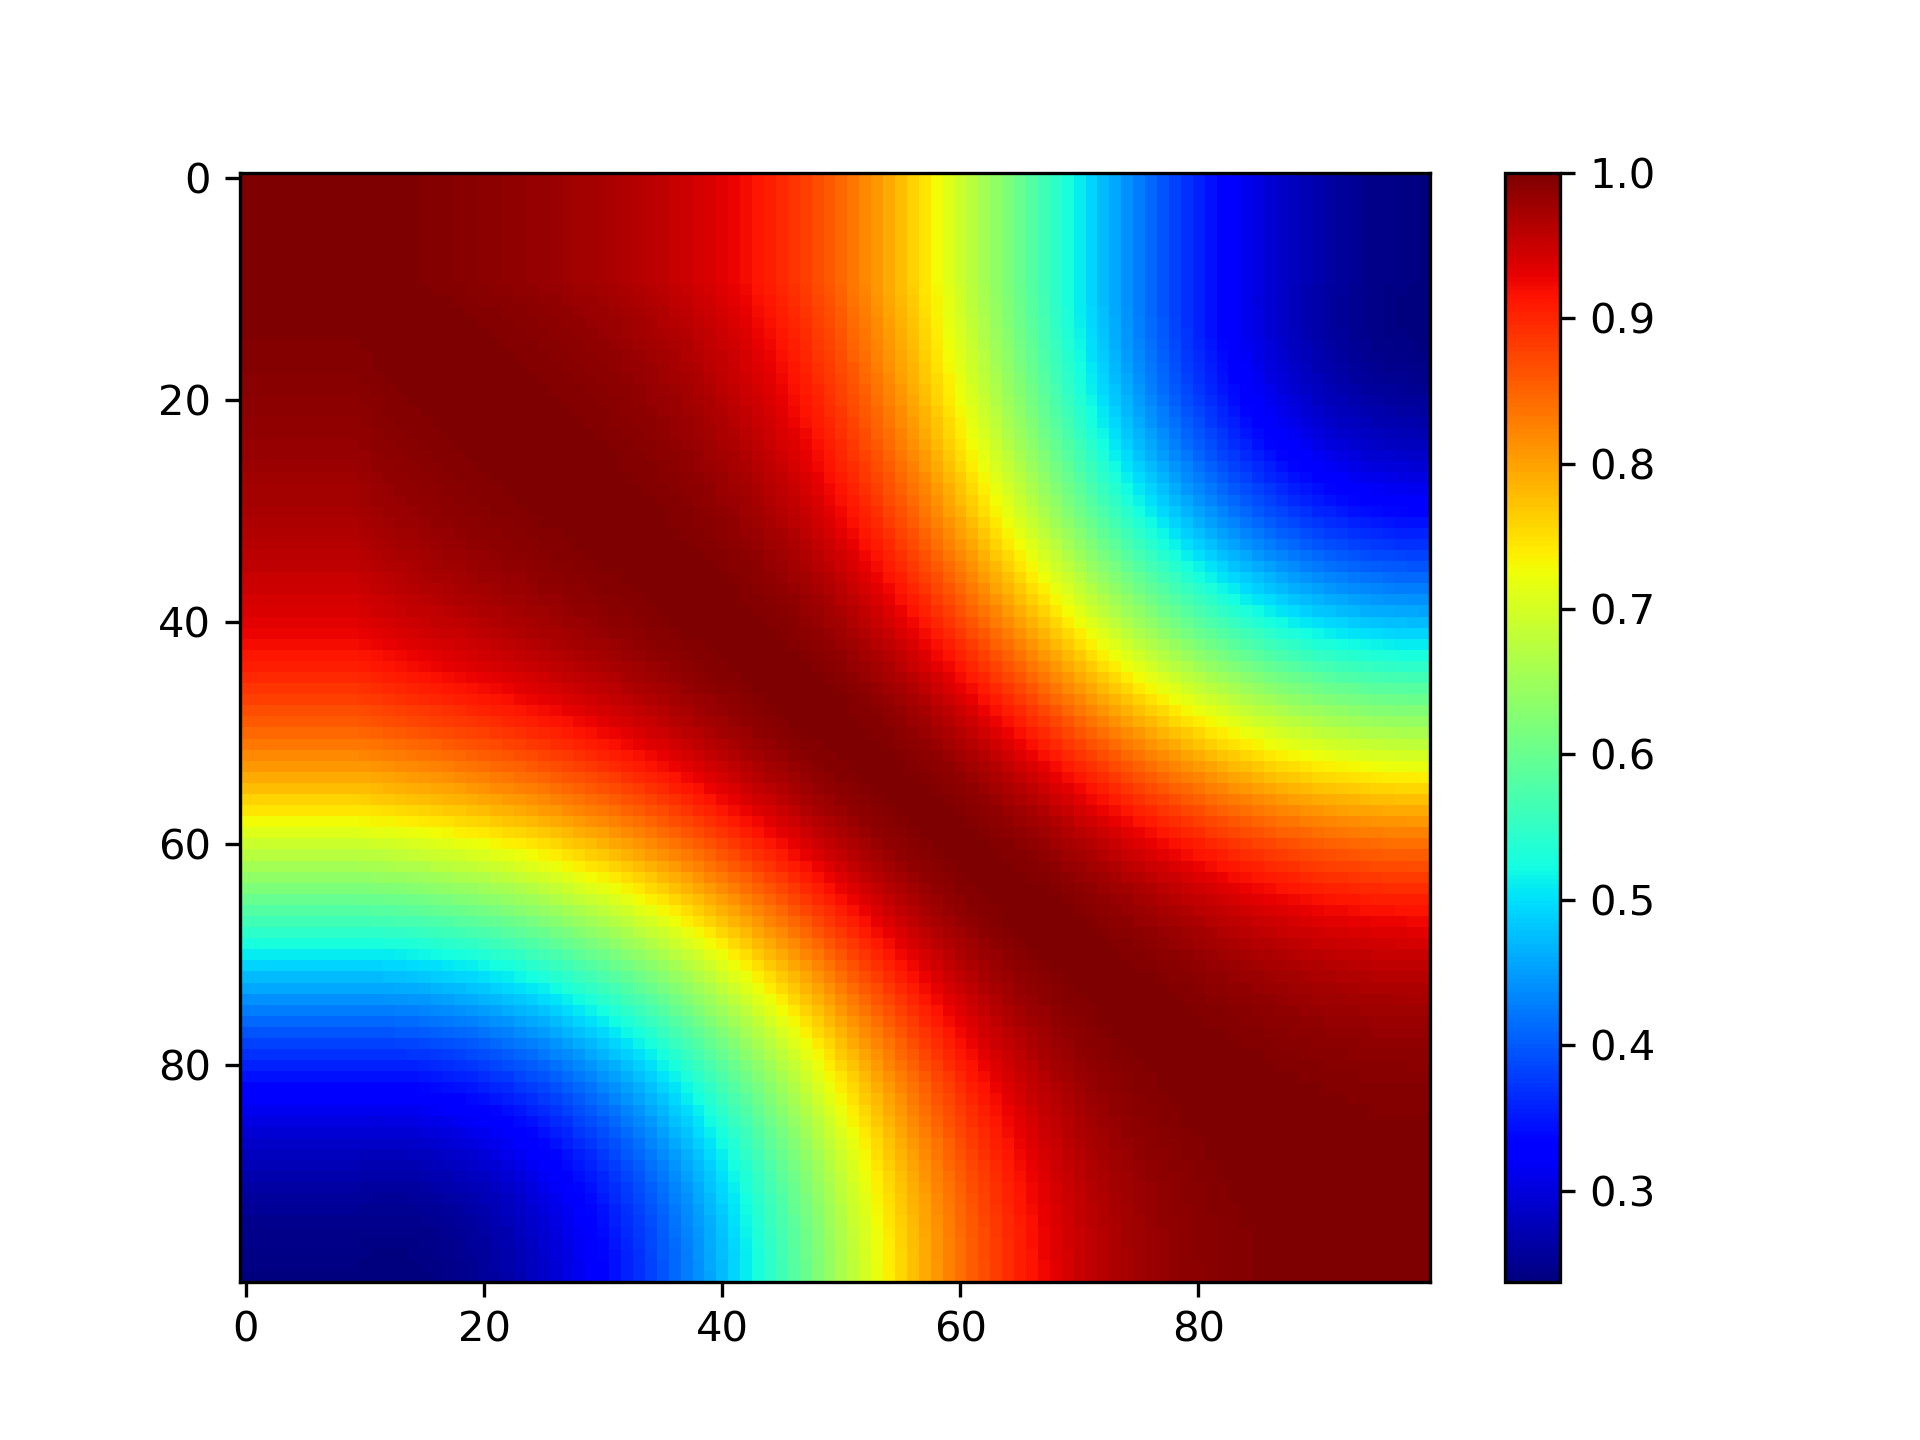
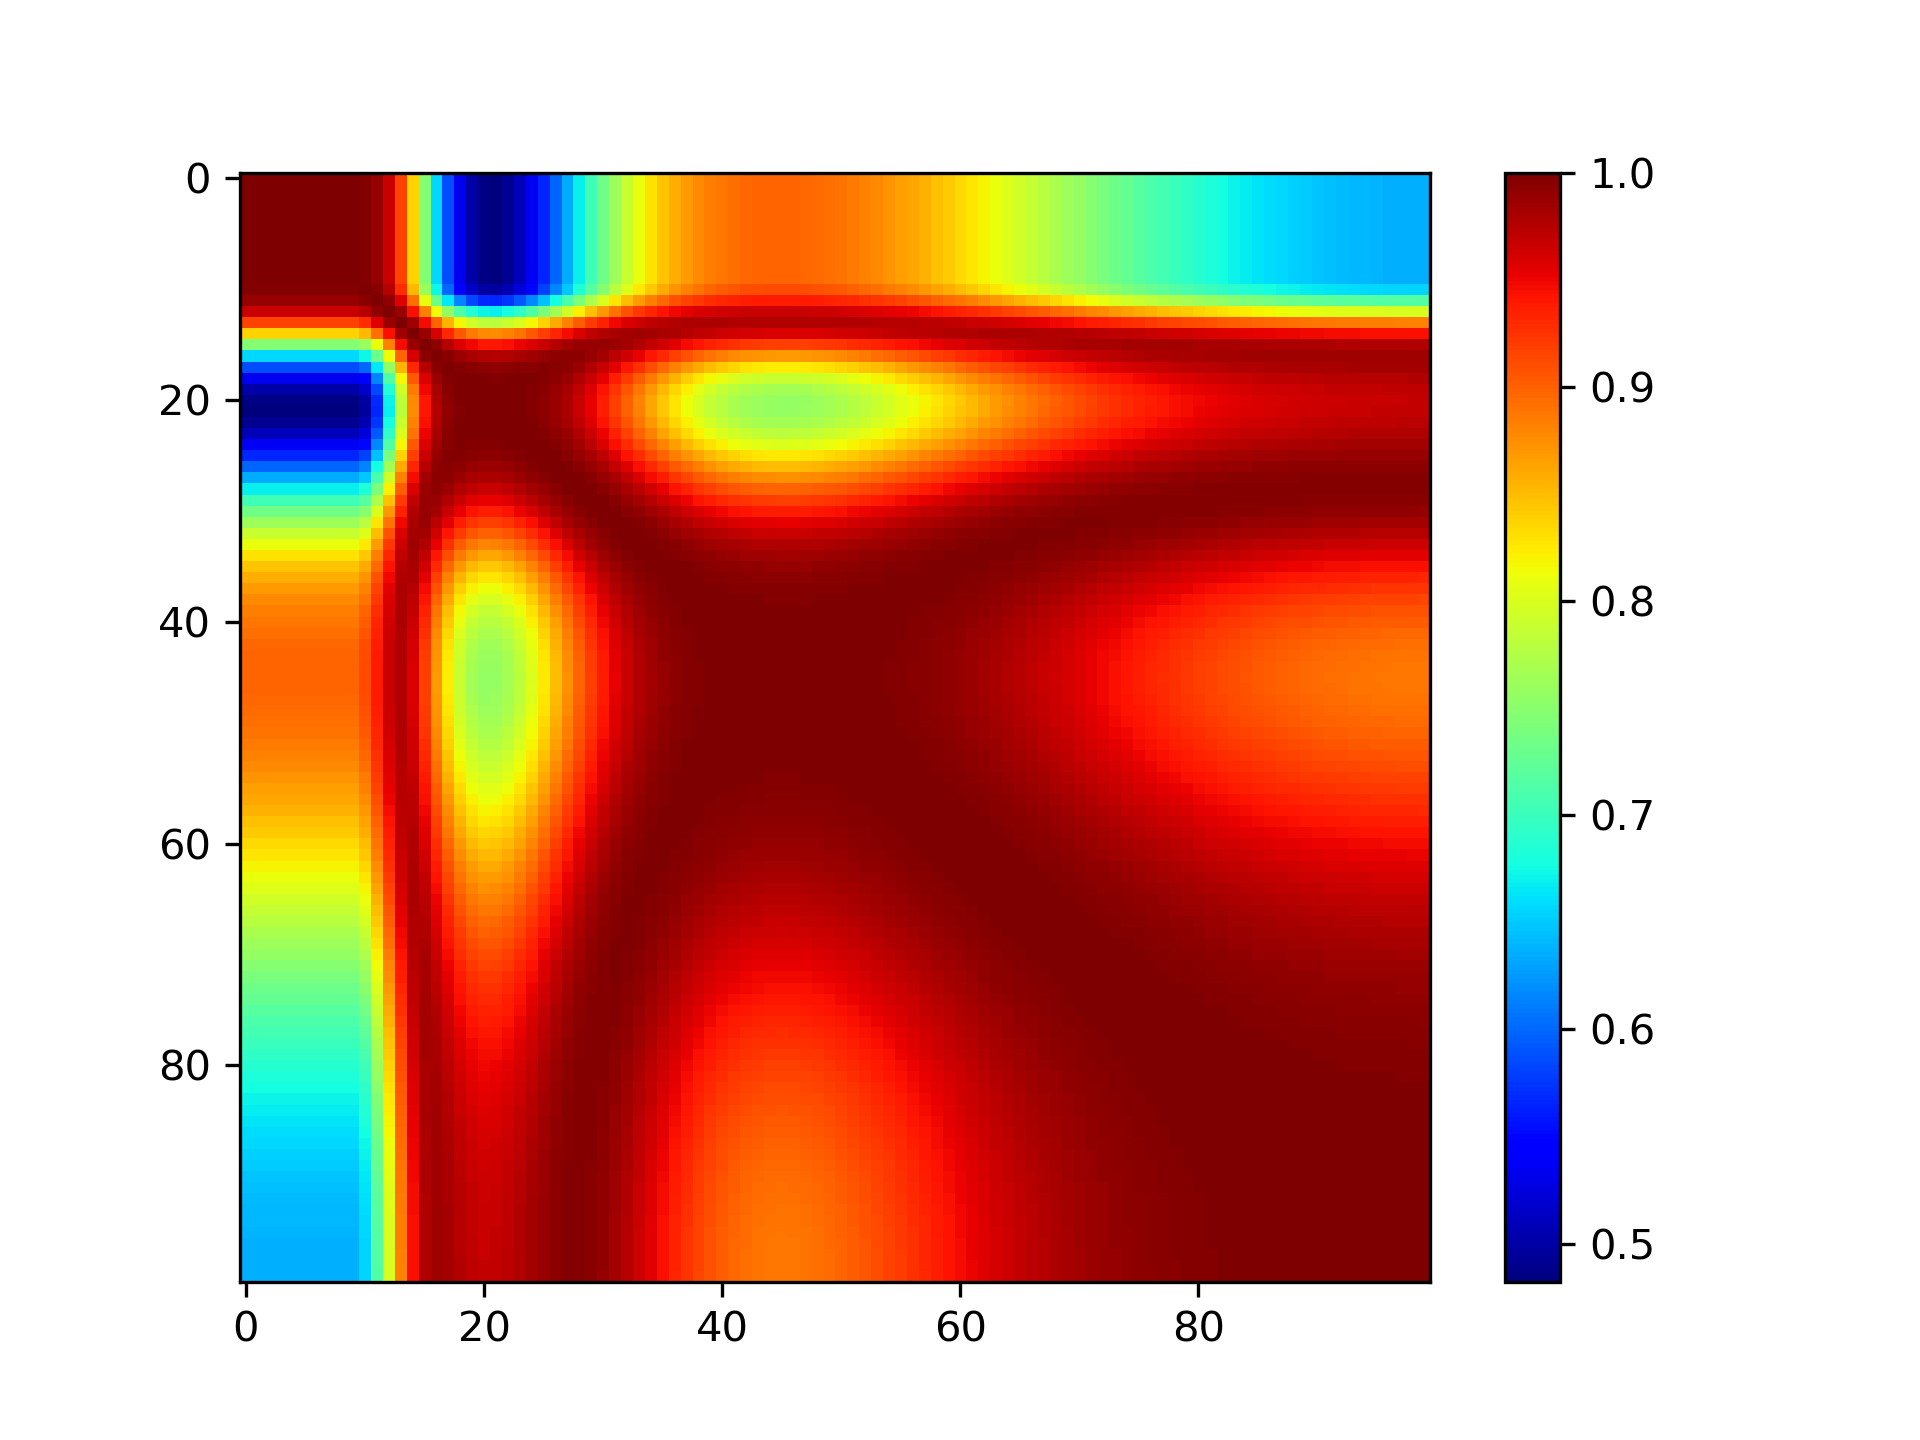
[geometries]: changed background color

diff --git a/src/tests/correlation_analysis.py b/src/tests/correlation_analysis.py
@@ -5,45 +5,46 @@ import os
 
 if __name__ == '__main__':
     data_dir = os.path.dirname(os.path.dirname(os.path.realpath(__file__))) + '/../data/simulations/'
-    for freq in [10, 20, 30, 40, 50]:
-        filename = data_dir + 'TaperedSpring_' + str(freq) + 'hz.pkl'
+    # for freq in [10, 20, 30, 40, 50]:
+    freq = 20
+    filename = data_dir + 'TaperedSpring_sq_nl20.0_hz.pkl'
 
-        with open(filename, 'rb') as f:
-            solution = pickle.load(f)
+    with open(filename, 'rb') as f:
+        solution = pickle.load(f)
 
-        i_max = 100
-        t = solution.t
+    i_max = 100
+    t = solution.t
 
-        x = np.zeros((i_max, 3, t.shape[0]))
-        data = np.zeros((i_max, t.shape[0]))
-        for i in range(t.shape[0]):
-            x[:, :, i] = solution.y[:i_max * 3, i].reshape((i_max, 3)) - solution.y[0:i_max * 3, 0].reshape((i_max, 3))
-            data[:, i] = x[:, 2, i]
+    x = np.zeros((i_max, 3, t.shape[0]))
+    data = np.zeros((i_max, t.shape[0]))
+    for i in range(t.shape[0]):
+        x[:, :, i] = solution.y[:i_max * 3, i].reshape((i_max, 3)) - solution.y[0:i_max * 3, 0].reshape((i_max, 3))
+        data[:, i] = x[:, 2, i]
 
-        for i in range(i_max):
-            data[i, :] = data[i, :] / np.linalg.norm(data[i, :])
+    for i in range(i_max):
+        data[i, :] = data[i, :] / np.linalg.norm(data[i, :])
 
-        # corr = np.cov(data)
-        corr = np.matmul(data, data.T)
+    # corr = np.cov(data)
+    corr = np.matmul(data, data.T)
 
-        fig = plt.figure('Correlation Matrix ' + str(freq) + ' Hz')
-        plt.imshow(corr, cmap='jet', aspect='auto')
-        plt.colorbar()
-        plt.show()
-        # save in high resolution
-        plot_name = data_dir + '../plots/correlation_matrix_' + str(freq) + 'hz.png'
-        fig.savefig(plot_name, dpi=300)
+    fig = plt.figure('Correlation Matrix ' + str(freq) + ' Hz')
+    plt.imshow(corr, cmap='jet', aspect='auto')
+    plt.colorbar()
+    plt.show()
+    # save in high resolution
+    plot_name = data_dir + '../plots/correlation_matrix_' + str(freq) + 'hz.png'
+    fig.savefig(plot_name, dpi=300)
 
-        scores = np.zeros((i_max, 1))
-        for i in range(i_max):
-            scores[i] = np.sum(corr[i, :]) - corr[i, i]
+    scores = np.zeros((i_max, 1))
+    for i in range(i_max):
+        scores[i] = np.sum(corr[i, :]) - corr[i, i]
 
-        fig = plt.figure('Scores ' + str(freq) + ' Hz')
-        plt.plot(scores)
-        plt.xlabel('Sensor Number')
-        plt.ylabel('Score')
-        plt.title('Scores ' + str(freq) + ' Hz')
-        plt.show()
+    fig = plt.figure('Scores ' + str(freq) + ' Hz')
+    plt.plot(scores)
+    plt.xlabel('Sensor Number')
+    plt.ylabel('Score')
+    plt.title('Scores ' + str(freq) + ' Hz')
+    plt.show()
 
-        plot_name = data_dir + '../plots/scores_' + str(freq) + 'hz.png'
-        fig.savefig(plot_name, dpi=300)
+    plot_name = data_dir + '../plots/scores_' + str(freq) + 'hz.png'
+    fig.savefig(plot_name, dpi=300)

diff --git a/src/tests/data_analyzer.py b/src/tests/data_analyzer.py
@@ -3,14 +3,41 @@ import numpy as np
 import pickle
 import os
 
+
+def get_corelation_estimates(res_freq, freq):
+    # x and y are 1D arrays
+    s = np.linspace(0, 0.061340, 100)
+
+    x = np.sin(2 * np.pi * freq * s) * np.sin(2 * np.pi * res_freq * s)
+
+    # plot x vs s
+    plt.figure()
+    plt.plot(s, x)
+    plt.xlabel('s')
+    plt.ylabel('x')
+    plt.title('x vs s')
+    plt.show()
+
+    # get x*xtranspose matrix
+    mat = np.outer(x, x)
+    # show image of x*xtranspose matrix
+    plt.figure()
+    plt.imshow(mat, aspect='auto', cmap='jet')
+    plt.colorbar()
+    plt.xlabel('x')
+    plt.ylabel('x')
+    plt.title('x*xtranspose')
+    plt.show()
+
+
 if __name__ == "__main__":
     data_dir = os.path.dirname(os.path.dirname(os.path.realpath(__file__))) + '/../data/simulations/'
     # filename = data_dir + 'SimpleSpring.pkl'
-    # filename = data_dir + 'TaperedSpring_0.pkl'
+    filename = data_dir + 'TaperedSpring_sq_nl20.0_hz.pkl'
     # freq = str(input())
-    freq = '20_'
-    filename = data_dir + 'TaperedSpring_sq' + freq + 'hz.pkl'
-
+    # freq = '20_'
+    # filename = data_dir + 'TaperedSpring_sq' + freq + 'hz.pkl'
+    #
     with open(filename, 'rb') as f:
         solution = pickle.load(f)
 
@@ -36,13 +63,14 @@ if __name__ == "__main__":
     X = X[:, 0:int(X.shape[1] / 2)]
 
     plt.figure()
-    plt.imshow(X, aspect='auto', cmap='jet')
+    # plt.imshow(X, aspect='auto', cmap='jet')
+    # contour plot
+    plt.contourf(X, cmap='flag', levels=100)
     plt.colorbar()
     plt.xlabel('Frequency')
     plt.ylabel('Node')
     plt.title('FFT of Displacement')
     plt.show()
-
 
     plt.figure()
     plt.imshow(x[:, 2, :], aspect='auto', cmap='jet')
@@ -51,3 +79,5 @@ if __name__ == "__main__":
     plt.ylabel('displacement')
     plt.title('Displacement vs Time')
     plt.show()
+
+    # get_corelation_estimates(40, 8.734)

diff --git a/src/geometries/miura_ori_geom.py b/src/geometries/miura_ori_geom.py
@@ -83,7 +83,7 @@ class MiuraOriGeometry:
                                x=0,
                                y=0,
                                center=vp.vector(self.l * self.xn, self.w * self.yn, 0),
-                               background=vp.color.black, fov=1)
+                               background=vp.color.white, fov=1)
 
     def update_dimensions(self):
         """Update the dimensions of the Miura-Ori geometry.
@@ -211,13 +211,13 @@ class MiuraOriGeometry:
                                              self.vp_nodes[i + 1][j + 1].pos,
                                              self.vp_nodes[i][j + 1].pos,
                                              self.vp_nodes[i][j].pos],
-                                        color=vp.color.gray(0.5),
+                                        color=vp.color.gray(0.0),
                                         radius=0.01)
                                for j in range(0, self.j_max - 1)] for i in range(0, self.i_max - 1)]
 
         self.facet_curves = [[vp.curve(pos=[self.vp_nodes[i][j + i % 2].pos,
                                             self.vp_nodes[i + 1][j + 1 - i % 2].pos],
-                                       color=vp.color.purple, radius=0.01)
+                                       color=vp.color.black, radius=0.01)
                               for j in range(0, self.j_max - 1)] for i in range(0, self.i_max - 1)]
 
     def update_curves(self):
@@ -309,8 +309,8 @@ if __name__ == '__main__':
     b = 1
     gamma = np.pi / 4
     theta = np.pi / 4
-    xn = 3
-    yn = 3
+    xn = 2
+    yn = 2
 
     geo = MiuraOriGeometry(a, b, gamma, theta, xn, yn, True)
     geo.spin()

diff --git a/src/simulator/animator.py b/src/simulator/animator.py
@@ -100,10 +100,12 @@ def slider_time_scale(s):
 def update_sim_time(t):
     pass
 
+
 def cmap_update(m):
     global cmap
     cmap = m.selected
     print(cmap)
+
 
 def simulate(geom_, solution_):
     global show_strain, paused, strain_scale, time_scale, pause_button, strain_checkbox, slider1, slider2, text, curr_time, time_slider, geom, cmap
@@ -158,6 +160,8 @@ def simulate(geom_, solution_):
                 for i in range(0, i_max):
                     for j in range(0, j_max):
                         colors[i][j] = interpolate_color(strains[i][j], cmap)
+                        # give color according to nodal position
+                        # colors[i][j] = interpolate_color((i * i_max + j) / (i_max * j_max), cmap)
                 geom.update_vp_nodes(colors=colors)
 
             while time.time() - t0 < dt * time_scale:

diff --git a/src/models/spring_dynamic_model.py b/src/models/spring_dynamic_model.py
@@ -59,11 +59,11 @@ def calculate_internal_force(t):
         if not node_props[i][1]:
             force_axial[i, :] += k_axial * (l - l0) * (x[i + 1, :] - x[i, :]) / l
             force_damping[i, :] += zeta * (x_d[i + 1, :] - x_d[i, :]) / l
-            force_shear[i, :] += k_shear * (r - r0)
+            force_shear[i, :] += k_shear * (i / i_max) ** 2 * (r - r0)
         if not node_props[i + 1][1]:
             force_axial[i + 1, :] -= k_axial * (l - l0) * (x[i + 1, :] - x[i, :]) / l
             force_damping[i + 1, :] -= zeta * (x_d[i + 1, :] - x_d[i, :]) / l
-            force_shear[i + 1, :] += -k_shear * (r - r0)
+            force_shear[i + 1, :] += -k_shear * (i / i_max) ** 2 * (r - r0)
 
 
 def dynamic_model(t, z):

diff --git a/src/examples/simple_spring.py b/src/examples/simple_spring.py
@@ -7,10 +7,12 @@ if __name__ == '__main__':
     data_dir = os.path.dirname(os.path.dirname(os.path.realpath(__file__))) + '/../data/simulations/'
     # filename = data_dir + 'SimpleSpring.pkl'
     # filename = data_dir + 'TaperedSpring_0.pkl'
-    # filename = data_dir + 'TaperedSpring_50_hz.pkl'
+    # filename = data_dir + 'TaperedSpring_10hz.pkl'
+    filename = data_dir + 'TaperedSpring_sq_nl20.0_hz.pkl'
     # freq = str(input())
-    freq = '8.734_'
-    filename = data_dir + 'TaperedSpring_sq' + freq + 'hz.pkl'
+    # freq = '8.734_'
+    # # freq = '_10_'
+    # filename = data_dir + 'TaperedSpring_sq' + freq + 'hz.pkl'
 
     with open(filename, 'rb') as f:
         solution = pickle.load(f)

diff --git a/src/geometries/spring_geom.py b/src/geometries/spring_geom.py
@@ -19,6 +19,7 @@ class SpringGeometry:
         self.n = int(n)
         self.visualize = visualize
         self.res = res
+        self.l = 0
 
         self.x = self.get_spring_shape()
 
@@ -44,6 +45,7 @@ class SpringGeometry:
                     self.p / (2 * np.pi)) ** 2) ** 0.5)
         x = np.zeros((self.res, 3))
         x[:, 0], x[:, 1], x[:, 2] = spring_curve(self.d, self.p, self.th, ts)
+        self.l = l
         return x
 
     def create_vp_nodes(self):
@@ -119,4 +121,5 @@ class SpringGeometry:
 
 if __name__ == '__main__':
     spring = SpringGeometry(0.3, 0.06, 10, 10 * np.pi / 180, True)
+    print(spring.l)
     spring.spin()

diff --git a/src/tests/tapered_spring_test.py b/src/tests/tapered_spring_test.py
@@ -13,10 +13,10 @@ if __name__ == '__main__':
     k_axial = 10000
     k_shear = 500000
 
-    freq = 8.734
+    freq = 20.0
 
     geom = SpringGeometry(d=d, p=p, n=n, th=th, visualize=False)
 
     data_dir = os.path.dirname(os.path.dirname(os.path.realpath(__file__))) + '/../data/simulations/'
-    filename = data_dir + 'TaperedSpring_sq' + str(freq) + '_hz.pkl'
+    filename = data_dir + 'TaperedSpring_sq_nl' + str(freq) + '_hz.pkl'
     get_solution(geom, filename, zeta, k_axial, k_shear, 0.01, 30, freq)

diff --git a/src/geometries/square_twist_geom.py b/src/geometries/square_twist_geom.py
@@ -44,7 +44,7 @@ class SquareTwistGeometry:
         self.scene = vp.canvas(title='Square Twist Simulation', width=1000, height=800,
                                x=0,
                                y=0,
-                               center=vp.vector(0, 0, 0), background=vp.color.black, fov=1)
+                               center=vp.vector(0, 0, 0), background=vp.color.white, fov=1)
 
     def update_nodes(self):
         self.nodes = np.zeros((self.i_max, self.j_max, 3))

diff --git a/src/geometries/base_geom.py b/src/geometries/base_geom.py
@@ -36,7 +36,7 @@ class BaseGeometry:
                                x=0,
                                y=0,
                                center=vp.vector(int(self.a * self.i_max / 2), int(self.b * self.j_max / 2), 0),
-                               background=vp.color.black, fov=1)
+                               background=vp.color.white, fov=1)
 
     def update_nodes(self):
         self.fa = (self.a ** 2 + self.b ** 2) ** 0.5

diff --git a/src/geometries/bistable_material_geom.py b/src/geometries/bistable_material_geom.py
@@ -38,7 +38,7 @@ class BistableMaterialGeometry:
                                x=0,
                                y=0,
                                center=vp.vector(int(self.a * self.i_max / 2), int(self.a * self.j_max / 2), 0),
-                               background=vp.color.black, fov=1)
+                               background=vp.color.white, fov=1)
 
     def update_nodes(self):
         self.fa = self.a * 2 ** 0.5

diff --git a/src/geometries/simple_cut_geom.py b/src/geometries/simple_cut_geom.py
@@ -70,7 +70,7 @@ class KirigamiSimpleCutGeometry:
                                x=0,
                                y=0,
                                center=vp.vector(int(self.a * self.i_max / 2), int(self.b * self.j_max / 2), 0),
-                               background=vp.color.black, fov=1)
+                               background=vp.color.white, fov=1)
 
     def update_nodes(self):
         """
